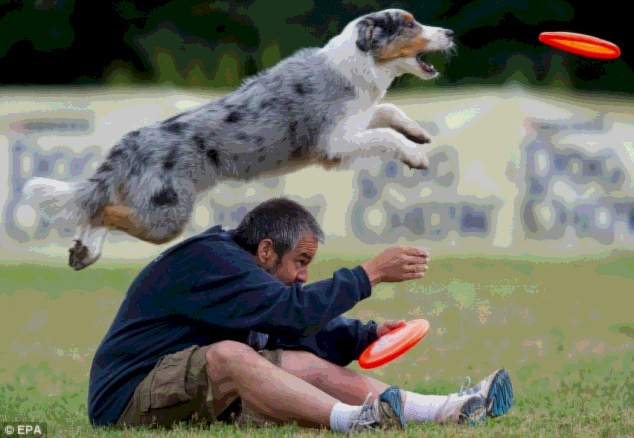
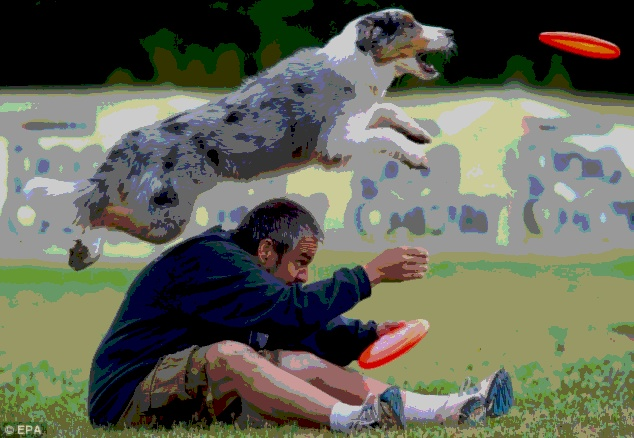
lowered levels for quantize example

diff --git a/P1/vidDisplay.cpp b/P1/vidDisplay.cpp
@@ -61,7 +61,7 @@ bool process_keystroke(char key, cv::Mat *frame)
     if (key == 'l')
     {
         cv::Mat *dst = new cv::Mat(frame->rows, frame->cols, frame->type(), 0.0);
-        blurQuantize(*frame, *dst, 15);
+        blurQuantize(*frame, *dst, 10);
         cv::namedWindow("Blur Quantize", 1);
         cv::imshow("Blur Quantize", *dst);
 
